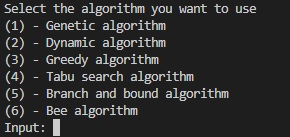
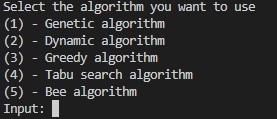
Update

Changed region(s): [[0.0, 0.1261, 0.8087, 1.0], [0.0, 0.0, 0.9242, 0.1261]]

diff --git a/src/main.py b/src/main.py
@@ -34,7 +34,7 @@ weights, values, spaces = zip(*items_data)
 # Initialize population randomly
 def initialize_population(population_size):
     # Initialize a population of size population_size with binary representation of items
-    population = np.random.randint(2, size=(population_size, len(weights)))
+    population = np.random.randint(2, size=(population_size, len(values)))
     return population.tolist()
 
 # Calculate fitness of each individual
@@ -103,7 +103,7 @@ def genetic_algorithm():
         
         # Selection, crossover, and mutation
         selected_population = selection(population, fitness_scores)
-        for i in range(int(population_size / 2)):
+        for _ in range(int(population_size / 2)):
             parent1, parent2 = selected_population
             child1, child2 = crossover(parent1, parent2)
             new_population.extend([child1, child2])
@@ -118,30 +118,30 @@ def genetic_algorithm():
 
 ''' Dynamic algorithm '''
 # Function to solve knapsack problem using dynamic programming
-def knapsack_dynamic(weights, values, max_weight, max_space):
-    n = len(weights)
+def knapsack_dynamic(weights, values, spaces, max_weight, max_space):
+    n = len(values)
     dp = [[0] * (max_space + 1) for _ in range(max_weight + 1)]
 
     for i in range(1, n + 1):
         for j in range(max_weight, -1, -1):
             for k in range(max_space, -1, -1):
-                if j >= weights[i - 1] and k >= 1:
-                    dp[j][k] = max(dp[j][k], dp[j - weights[i - 1]][k - 1] + values[i - 1])
+                if j >= weights[i - 1] and k >= spaces[i - 1] and k >= 1:
+                    dp[j][k] = max(dp[j][k], dp[j - weights[i - 1]][k - spaces[i - 1]]+ values[i - 1])
 
     return dp[max_weight][max_space]
 
 ''' Greedy algorithm '''
 # Function to solve knapsack problem using a greedy algorithm
-def knapsack_greedy(weights, values, max_weight, max_space):
+def knapsack_greedy(weights, values, spaces, max_weight, max_space):
     n = len(weights)
     total_weight = 0
     total_space = 0
     max_value = 0
 
     for i in range(n):
-        if total_weight + weights[i] <= max_weight and total_space + 1 <= max_space:
+        if total_weight + weights[i] <= max_weight and total_space + spaces[i] <= max_space:
             total_weight += weights[i]
-            total_space += 1
+            total_space += spaces[i]
             max_value += values[i]
     
     return max_value
@@ -166,7 +166,7 @@ def tabu_search():
     tabu_list = []
 
     # Perform iterations
-    for _ in range(iterations):
+    for i in range(iterations):
         neighbors = [move_operator(current_solution) for _ in range(population_size)]
 
         # Select the best non-tabu neighbor
@@ -192,101 +192,12 @@ def tabu_search():
             best_fitness = best_neighbor_fitness
             
         # Print generation and best fitness for monitoring
-        print("Generation:", iterations, "Best Fitness:", current_solution)
+        print("Generation:", i, "Best Fitness:", current_solution)
 
     return best_solution, best_fitness
 
-''' Branch and bound algorithm'''
-# Function to calculate upper bound of a node
-def calculate_upper_bound(weight, value, index, remaining_weight, remaining_space):
-    upper_bound = value
-    total_weight = weight
-    total_space = 1
-    while index < len(weights) and total_weight + weights[index] <= remaining_weight and total_space <= remaining_space:
-        upper_bound += values[index]
-        total_weight += weights[index]
-        total_space += 1
-        index += 1
-    if index < len(weights) and total_space <= remaining_space:
-        upper_bound += (remaining_weight - total_weight) * (values[index] / weights[index])
-    return upper_bound
-
-# Define the node structure for branch and bound
-class Node:
-    def __init__(self, index, weight, value, path, remaining_weight, remaining_space, upper_bound):
-        self.index = index
-        self.weight = weight
-        self.value = value
-        self.path = path
-        self.remaining_weight = remaining_weight
-        self.remaining_space = remaining_space
-        self.upper_bound = upper_bound
-
-# Branch and bound algorithm
-def branch_and_bound():
-    best_value = 0
-    best_path = []
-
-    initial_node = Node(0, 0, 0, [], max_weight, max_space, 0)
-    priority_queue = [initial_node]
-
-    while priority_queue:
-        node = priority_queue.pop(0)
-
-        if node.index == len(weights):
-            if node.value > best_value:
-                best_value = node.value
-                best_path = node.path
-            continue
-
-        include_node = Node(
-            node.index + 1,
-            node.weight + weights[node.index],
-            node.value + values[node.index],
-            node.path + [1],
-            node.remaining_weight - weights[node.index],
-            node.remaining_space - 1,
-            0
-        )
-
-        if include_node.weight <= max_weight and include_node.remaining_space >= 0:
-            include_node.upper_bound = calculate_upper_bound(include_node.weight, include_node.value, include_node.index, include_node.remaining_weight, include_node.remaining_space)
-            if include_node.upper_bound > best_value:
-                priority_queue.append(include_node)
-
-        exclude_node = Node(
-            node.index + 1,
-            node.weight,
-            node.value,
-            node.path + [0],
-            node.remaining_weight,
-            node.remaining_space,
-            0
-        )
-
-        exclude_node.upper_bound = calculate_upper_bound(exclude_node.weight, exclude_node.value, exclude_node.index, exclude_node.remaining_weight, exclude_node.remaining_space)
-        if exclude_node.upper_bound > best_value:
-            priority_queue.append(exclude_node)
-
-        priority_queue.sort(key=lambda x: -x.upper_bound)
-
-    return best_value, best_path
-
 ''' Bee algorythm '''
-# Function to calculate fitness of a solution
-def calculate_fitness(individual):
-    total_weight = np.sum(np.array(weights) * np.array(individual))
-    total_space = np.sum(individual)
-    total_value = np.sum(np.array(values) * np.array(individual))
-    if total_weight > max_weight or total_space > max_space:
-        return 0
-    else:
-        return total_value
-
-# Function to generate initial solutions
-def generate_solutions():
-    return [np.random.randint(2, size=len(weights)) for _ in range(bee_count)]
-
+#From genethic:  calculate_fitness(), initialize_population()
 # Function to perform local search on a solution
 def local_search(solution):
     best_solution = solution.copy()
@@ -313,7 +224,7 @@ def bee_algorithm():
     best_fitness = 0
     abandon_count = np.zeros(bee_count)
 
-    solutions = generate_solutions()
+    solutions = initialize_population(population_size)
 
     for _ in range(iterations):
         for i, solution in enumerate(solutions):
@@ -329,6 +240,7 @@ def bee_algorithm():
             else:
                 solutions[i] = np.random.randint(2, size=len(weights))
                 abandon_count[i] = 0
+            print("Generation:", i, "Best Fitness:", local_solution)
 
     return best_solution, best_fitness
 
@@ -337,7 +249,7 @@ def bee_algorithm():
 def main():
     option = 1
     ''' Selecting algorithm '''
-    option = int(input("Select the algorithm you want to use \n(1) - Genetic algorithm\n(2) - Dynamic algorithm\n(3) - Greedy algorithm\n(4) - Tabu search algorithm\n(5) - Branch and bound algorithm\n(6) - Bee algorithm\nInput: "))
+    option = int(input("Select the algorithm you want to use \n(1) - Genetic algorithm\n(2) - Dynamic algorithm\n(3) - Greedy algorithm\n(4) - Tabu search algorithm\n(5) - Bee algorithm\nInput: "))
     
     if option == 1:
         # Run the genetic algorithm
@@ -348,13 +260,13 @@ def main():
         print("Achieved at generation:", best_generation)
     elif option == 2:
         # Solve knapsack problem using dynamic programming
-        max_value = knapsack_dynamic(weights, values, max_weight, max_space)
+        max_value = knapsack_dynamic(weights, values, spaces, max_weight, max_space)
 
         # Output the result
         print("Maximum value that can be obtained:", max_value)
     elif option == 3:
         # Solve knapsack problem using greedy algorithm
-        max_value_greedy = knapsack_greedy(weights, values, max_weight, max_space)
+        max_value_greedy = knapsack_greedy(weights, values, spaces, max_weight, max_space)
 
         # Output the result
         print("Maximum value that can be obtained using greedy algorithm:", max_value_greedy)    
@@ -365,14 +277,7 @@ def main():
         # Output the best solution and its fitness
         print("Best solution:", best_solution)
         print("Best fitness:", best_fitness)    
-    elif option == 5:
-        # Solve knapsack problem using Branch and Bound algorithm
-        best_value, best_path = branch_and_bound()
-
-        # Output the result
-        print("Best value that can be obtained using branch and bound:", best_value)
-        print("Items selected:", best_path)
-    elif option == 6:    
+    elif option == 5:    
         # Run Bee Algorithm
         best_solution, best_fitness = bee_algorithm()
 

diff --git a/README.md b/README.md
@@ -9,7 +9,6 @@
     - [Dynamic algorithm](#dynamic-algorithm)
     - [Greedy algorithm](#greedy-algorithm)
     - [Tabu search](#tabu-search)
-    - [Branch and bound](#branch-n-bound)
     - [Bee algorithm](#bee-algorithm)
 ### Introduction
 The program is made to solve common problem calles knapsac, where you have to put as many valuable items as possible into a backpack with limits. My solution is based on backpack ***max_weight*** and ***max_space*** and fitness function is the determinant on how good the solution is.
@@ -19,15 +18,6 @@ In `/src` are two files one called `items_list.py` that generates database. To c
 #### main
 The second file in `/src` is `main.py` that's the main core of the program containg every solution. Firstly it takes the database and read all the information then it's inserted into chosen algorithm *(more of them later)*. The algorithm is chosen by compiling the program and inserting appropriate value into terminal window. Options (data made on 40 item database):
 
-| input value | algorithm | speed | accuracy |
-| 1 | Genetic algorithm | fast | good |
-| 2 | Dynamic algorithm | fast | perfect |
-| 3 | Greedy algorithm | fast | perfect |
-| 4 | Tabu search | fast | good |
-| 5 | Branch and bound | slow | good |
-| 6 | Bee algorithm | moderate | moderate |
-
-Compiled program in terminal shows:
 <p align="center" width="100%">
     <img src="images/compiling.jpg">
 </p>
@@ -47,7 +37,5 @@ Dynamic Programming (DP) breaks down a problem into smaller, overlapping subprob
 Greedy Algorithm makes locally optimal choices at each step with the hope of finding a globally optimal solution. It iteratively selects the best available option at each stage without considering the overall problem, often leading to a suboptimal solution.
 #### Tabu search
 Tabu Search Algorithm explores the solution space iteratively by making moves based on a defined neighborhood structure while keeping track of previously visited solutions in a tabu list. It aims to escape local optima by forbidding certain moves for a limited number of iterations, promoting diversification, and ultimately converging to better solutions.
-#### Branch and bound
-Branch and Bound Algorithm recursively explores the solution space by systematically enumerating all possible solutions while pruning branches that are known to be suboptimal based on a lower bound. It uses a systematic search strategy to find the globally optimal solution efficiently, particularly for combinatorial optimization problems like the knapsack problem.
 #### Bee algorithm
 Bee Algorithm iteratively improves solutions by employing employed bees, onlooker bees, and scout bees. Employed bees explore local solutions, onlooker bees select promising solutions based on employed bees' information, and scout bees perform global exploration by discovering new solutions. This process balances exploration and exploitation to find high-quality solutions efficiently.
